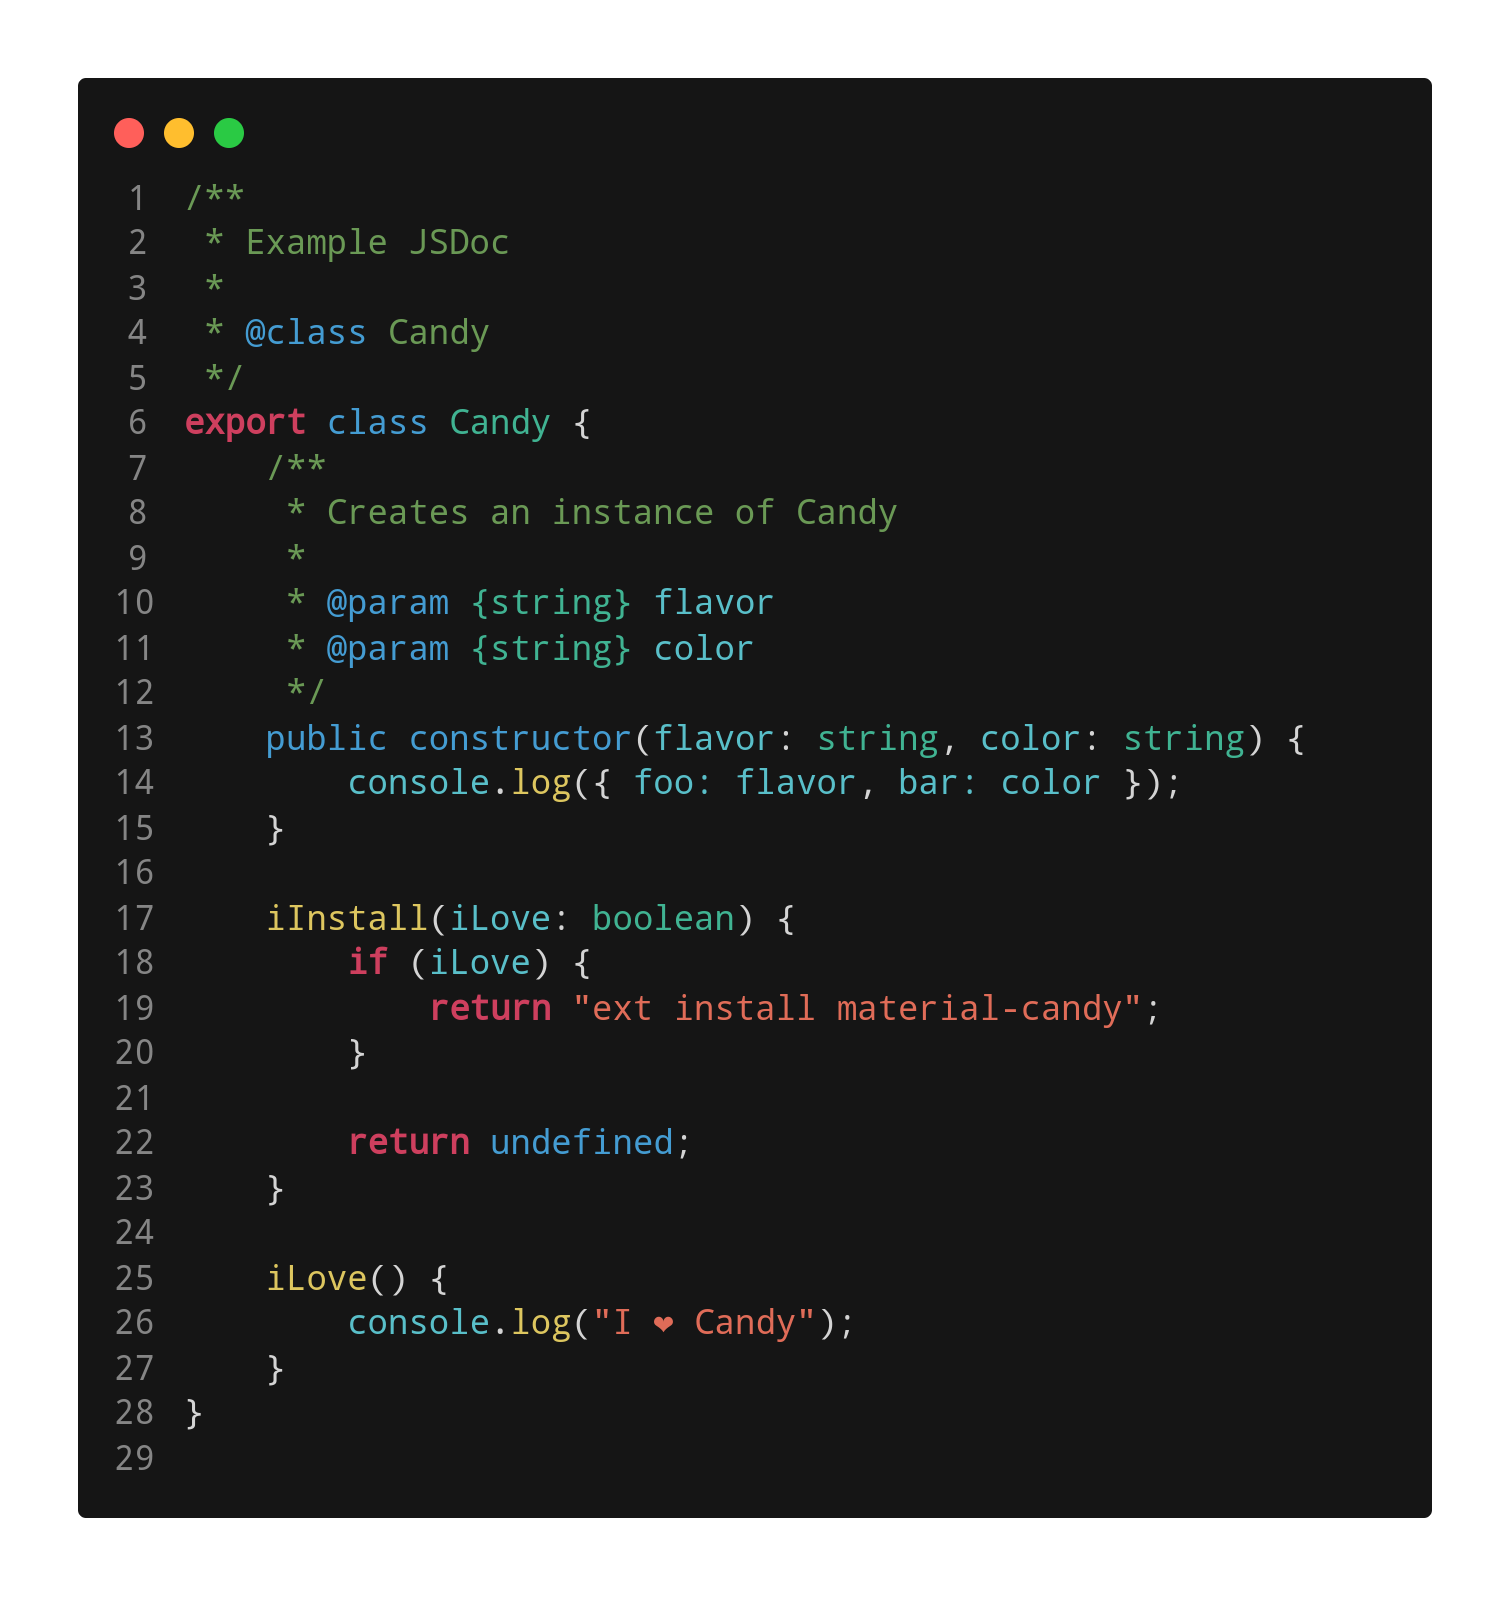
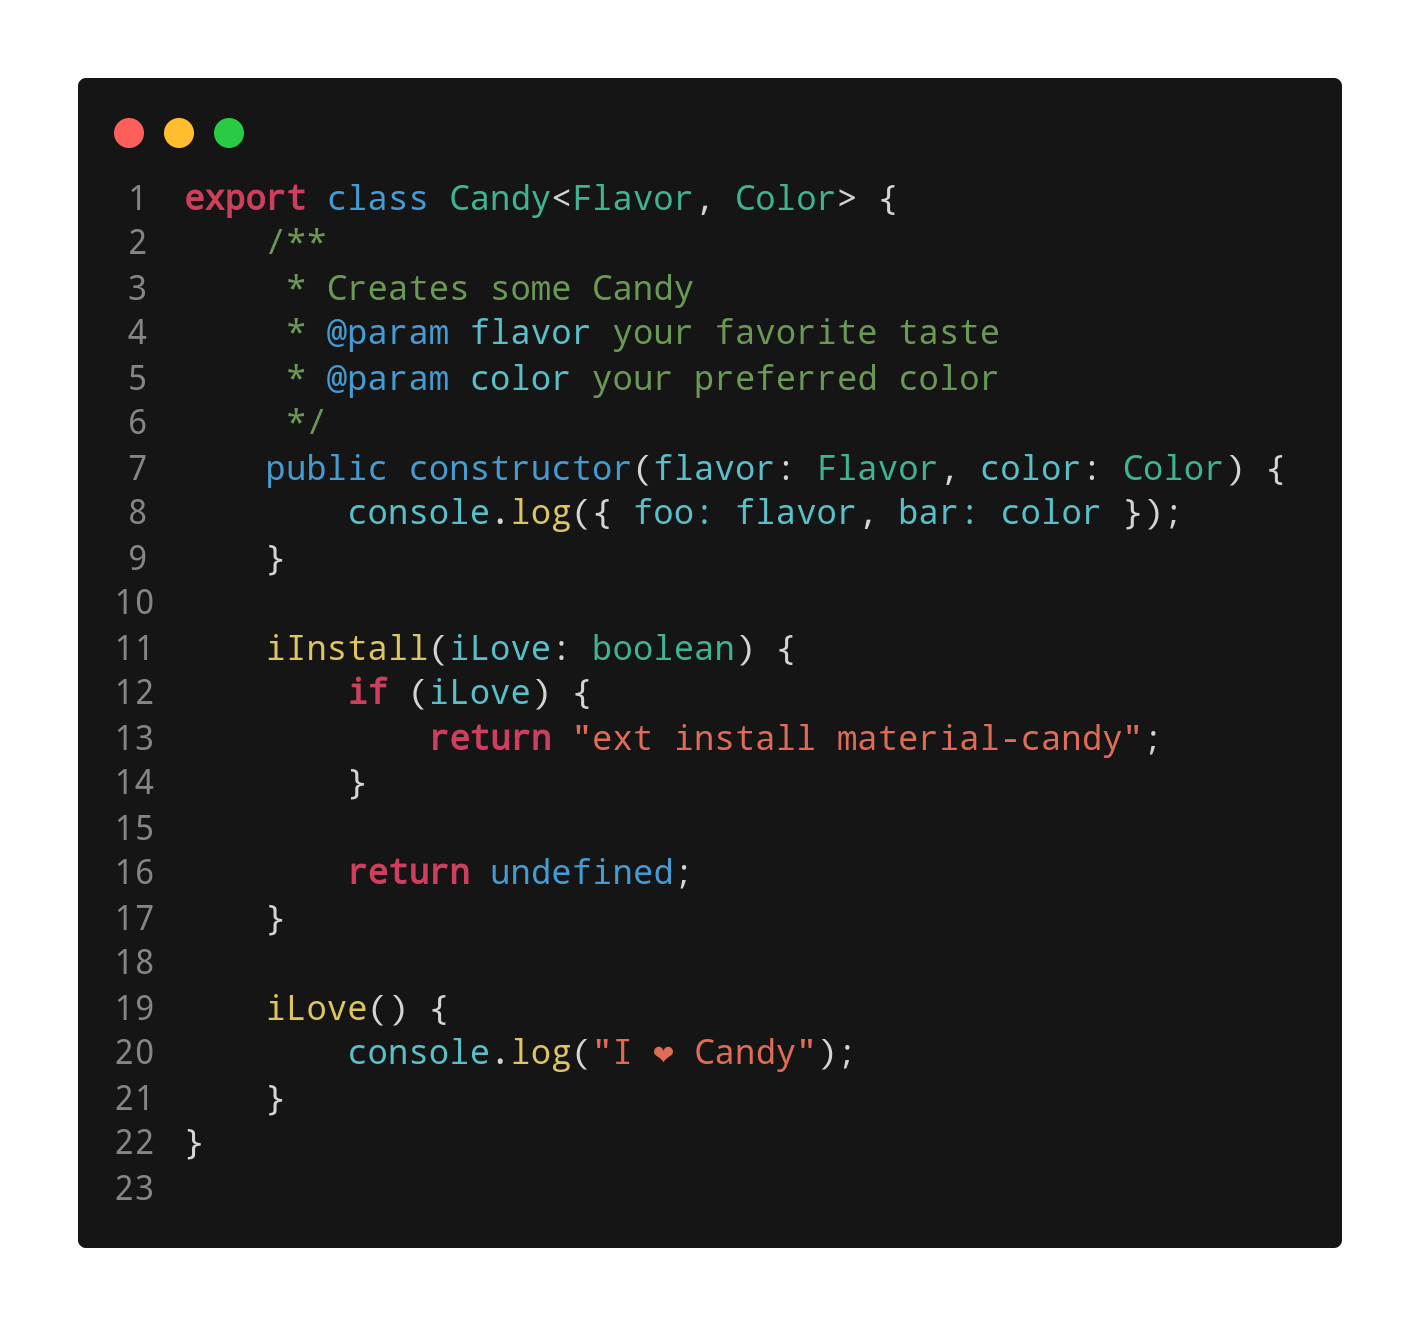
chore: readme

diff --git a/examples/example.ts b/examples/example.ts
@@ -1,16 +1,10 @@
-/**
- * Example JSDoc
- * 
- * @class Candy
- */
-export class Candy {
+export class Candy<Flavor, Color> {
 	/**
-	 * Creates an instance of Candy
-	 *
-	 * @param {string} flavor
-	 * @param {string} color
+	 * Creates some Candy
+	 * @param flavor your favorite taste
+	 * @param color your preferred color
 	 */
-	public constructor(flavor: string, color: string) {
+	public constructor(flavor: Flavor, color: Color) {
 		console.log({ foo: flavor, bar: color });
 	}
 
